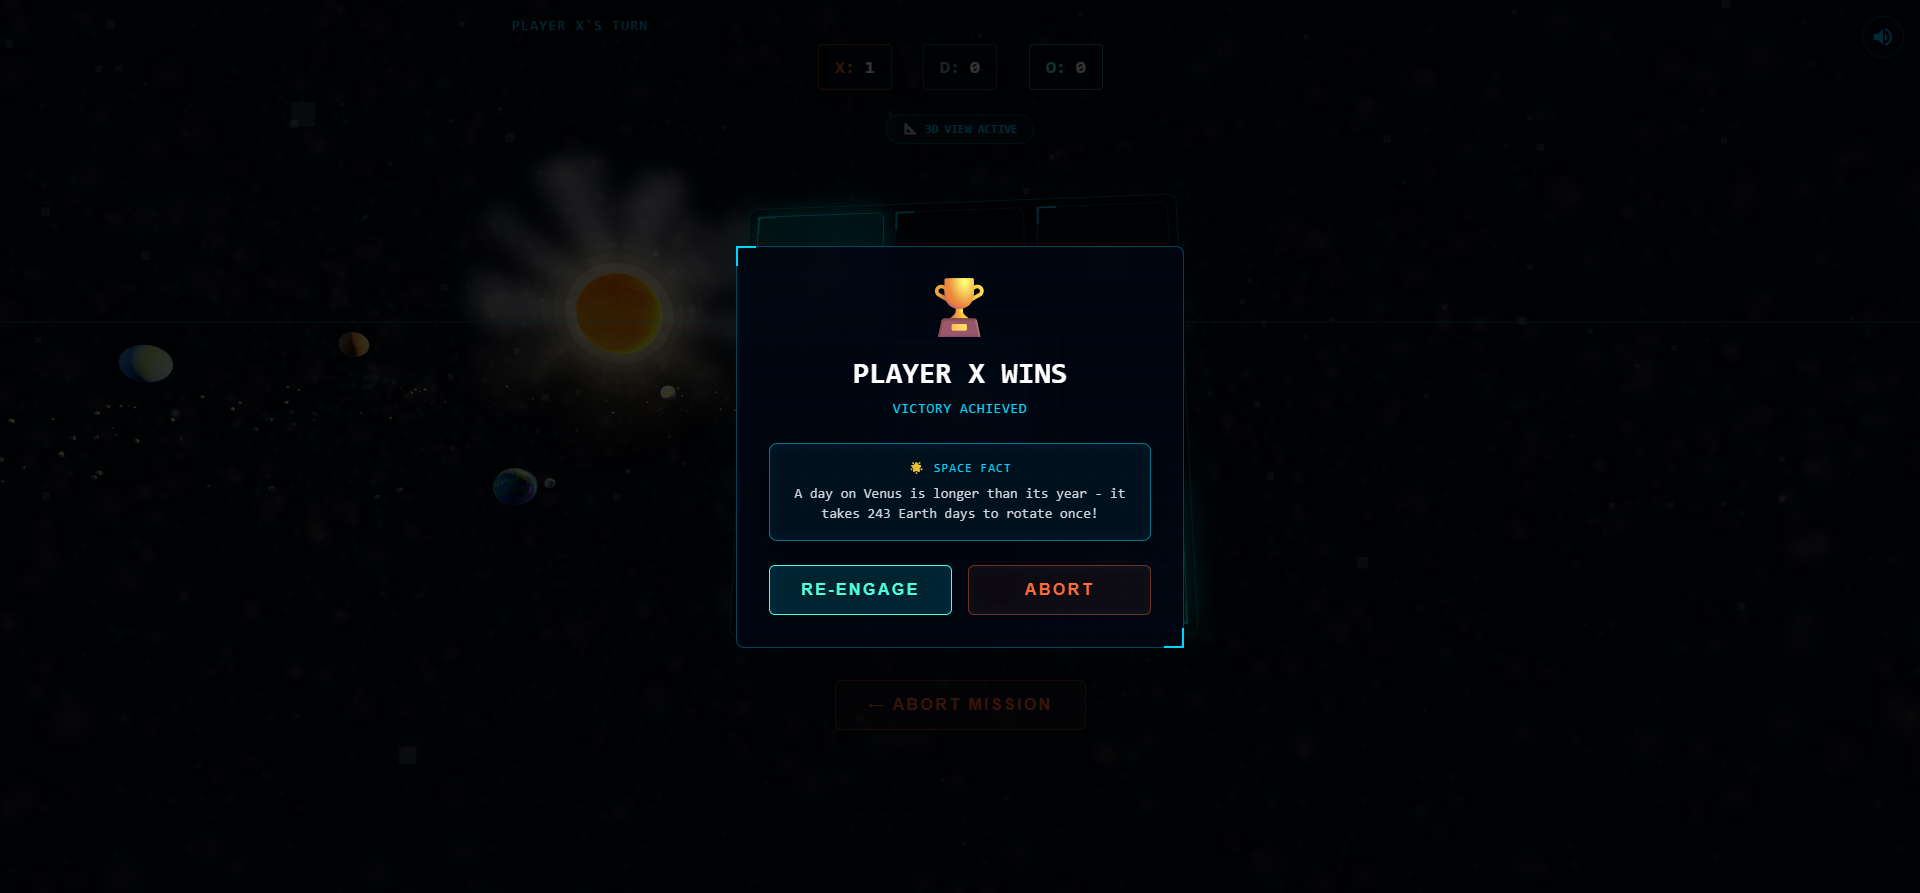
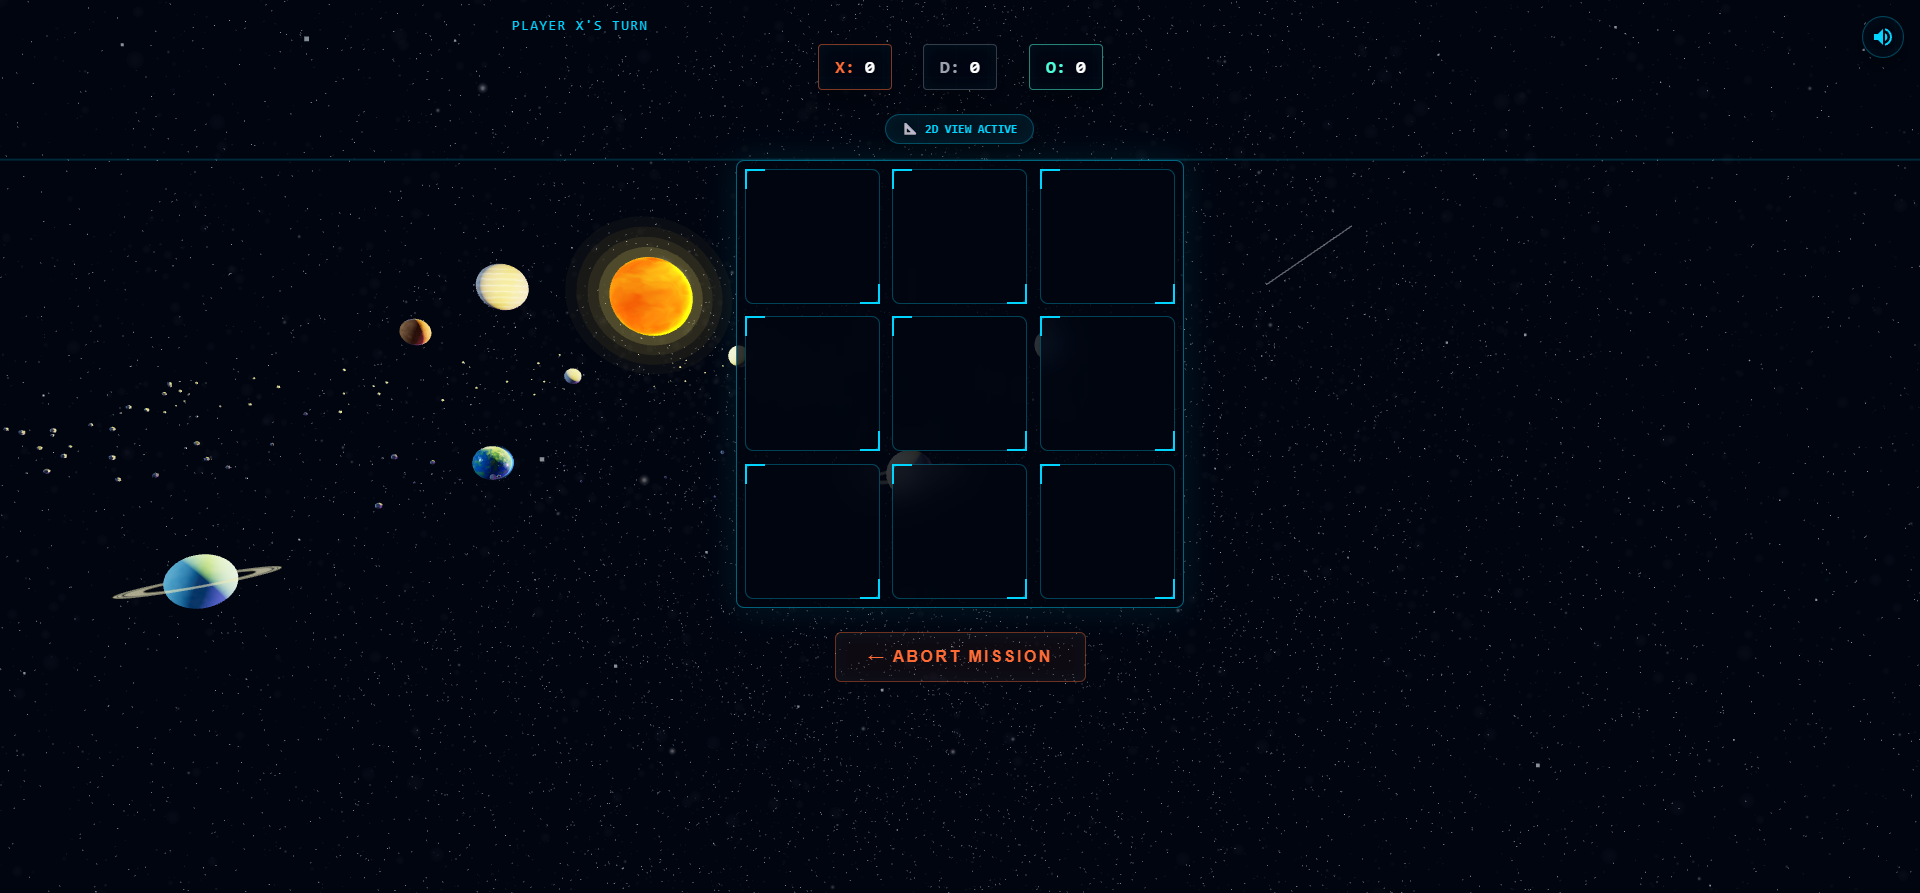
Refine celestial visuals: completely remove diffused star textures, implement 350-unit camera track exclusion zone, make shooting stars realistic and deep-space bound, and update all screenshots

diff --git a/tictactoe/public/space-3d.js b/tictactoe/public/space-3d.js
@@ -200,7 +200,15 @@
     const pos = [];
     const col = [];
     for (let i = 0; i < actualCount; i++) {
-      pos.push((Math.random() - 0.5) * range, (Math.random() - 0.5) * range, (Math.random() - 0.5) * range);
+      let x, y, z;
+      // Exclude lens-proximity zone around camera (0, 25, 90) to prevent giant blurry or blocky particles
+      do {
+        x = (Math.random() - 0.5) * range;
+        y = (Math.random() - 0.5) * range;
+        z = (Math.random() - 0.5) * range;
+      } while (Math.sqrt(x*x + (y-25)*(y-25) + (z-90)*(z-90)) < 350);
+
+      pos.push(x, y, z);
       const c = colorFn();
       col.push(c.r, c.g, c.b);
     }
@@ -242,15 +250,15 @@
   
   const starLayers = [
     createStarLayer(25000, 1.0, 3000, () => Math.random() < 0.15 ? new THREE.Color(0x88ccff) : new THREE.Color(0xffffff), false),
-    createStarLayer(8000, 2.2, 3000, () => new THREE.Color(0xffffff), true),
+    createStarLayer(8000, 1.6, 3000, () => new THREE.Color(0xffffff), false),
     createStarLayer(30000, 0.6, 4500, () => new THREE.Color(0x445566), false),
-    createStarLayer(4000, 3.5, 2500, () => {
+    createStarLayer(4000, 2.4, 2500, () => {
       const r = Math.random();
       if (r < 0.25) return new THREE.Color(0xff9977); // Orange/Red giants
       if (r < 0.50) return new THREE.Color(0x88ddff); // Blue supergiants
       if (r < 0.75) return new THREE.Color(0xffe484); // Yellow dwarfs
       return new THREE.Color(0xffb7ff); // Purple stars
-    }, true),
+    }, false),
     // 5th Ultra-Dense Deep-Space Star Layer for massive background realism
     createStarLayer(35000, 0.35, 5000, () => new THREE.Color().setHSL(0.58 + Math.random()*0.05, 0.45, 0.25 + Math.random()*0.15), false)
   ];
@@ -928,34 +936,35 @@
     
     star.active = true;
     star.t = 0;
-    star.speed = 0.85 + Math.random() * 1.5; // Random speed factor
-    star.tailLength = 0.06 + Math.random() * 0.14; // Random tail length
+    star.speed = 1.2 + Math.random() * 1.8; // Distant meteors are extremely fast needle streaks!
+    star.tailLength = 0.02 + Math.random() * 0.06; // Ultra-thin, realistic short tails for deep space
     
     // Meteor composition color tints
     const chemicalTints = [
       0xffffff, // White
-      0xd4ffff, // Iron/Nickel (bluish-cyan)
-      0xffffd4, // Sodium (yellowish)
-      0xffd4fa  // Calcium (violet-pink)
+      0xd5ffff, // bluish-cyan
+      0xffffd5, // yellowish
+      0xffd5fa  // violet-pink
     ];
     star.mesh.material.color.setHex(chemicalTints[Math.floor(Math.random() * chemicalTints.length)]);
     
-    // Spawn off-screen to one side, crossing in front of camera
-    const side = Math.random() < 0.5 ? -1 : 1;
+    // Spawn deep in the background far behind the planets (z = -600 to -1600)
+    // and randomly across a wide range (x = -400 to 400, y = 80 to 250)
+    const zDepth = -600 - Math.random() * 1000;
     star.start.set(
-      side * (120 + Math.random() * 150), // Start far left or right
-      60 + Math.random() * 70,            // Spawn at high altitude
-      -100 - Math.random() * 320           // Directly in front of camera field
+      (Math.random() - 0.5) * 800, // Random X spawn across the deep field
+      80 + Math.random() * 170,     // Random high Y altitude
+      zDepth                       // Far back in space
     );
     
-    // Fly diagonally across the center camera field
+    // Fly in completely random diagonal downwards directions
     const dir = new THREE.Vector3(
-      -side * (0.6 + Math.random() * 0.8), // Fly to opposite side
-      -0.45 - Math.random() * 0.65,        // Fly downwards
-      (Math.random() - 0.5) * 0.4          // Faint Z-depth shift
+      (Math.random() - 0.5) * 1.8, // Random X direction
+      -0.7 - Math.random() * 0.6,  // Downwards Y
+      (Math.random() - 0.5) * 0.8  // Random Z drift
     ).normalize();
     
-    const travel = 220 + Math.random() * 180; // Distance of travel
+    const travel = 250 + Math.random() * 250; // Distance of travel
     star.end.copy(star.start).add(dir.multiplyScalar(travel));
     
     star.mesh.material.opacity = 1;
